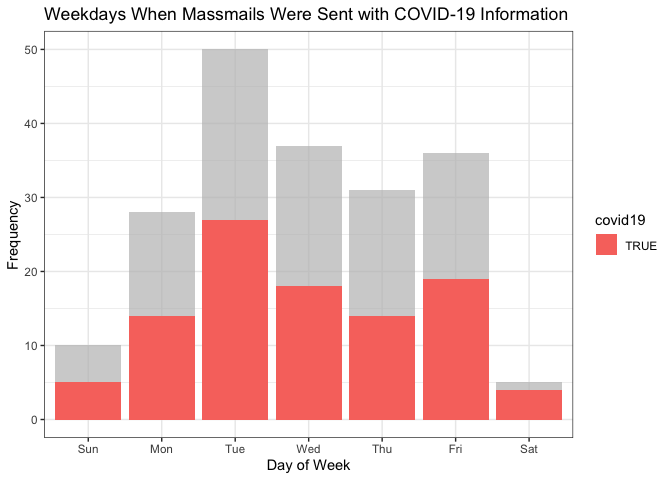
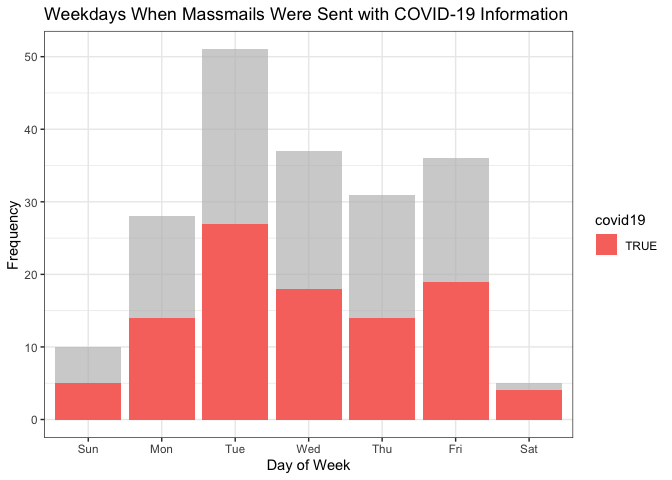
Re-build README.Rmd and Graphs

diff --git a/README.md b/README.md
@@ -17,7 +17,7 @@ The archive may be viewed here:
 
 <https://massmail.illinois.edu/massmailArchive>
 
-Data has **1239** observations and **7** variables:
+Data has **1240** observations and **7** variables:
 
   - `datetime`: Date and time when the email was sent in the form of
     `YYYY-MM-DD HMS` with either CDT or CST.
@@ -205,9 +205,9 @@ head(most_popular_words, 10) %>%
 
 | word        | freq |
 | :---------- | ---: |
-| students    |  682 |
-| campus      |  627 |
-| university  |  621 |
+| students    |  685 |
+| campus      |  629 |
+| university  |  624 |
 | illinois    |  401 |
 | faculty     |  353 |
 | covid       |  330 |
